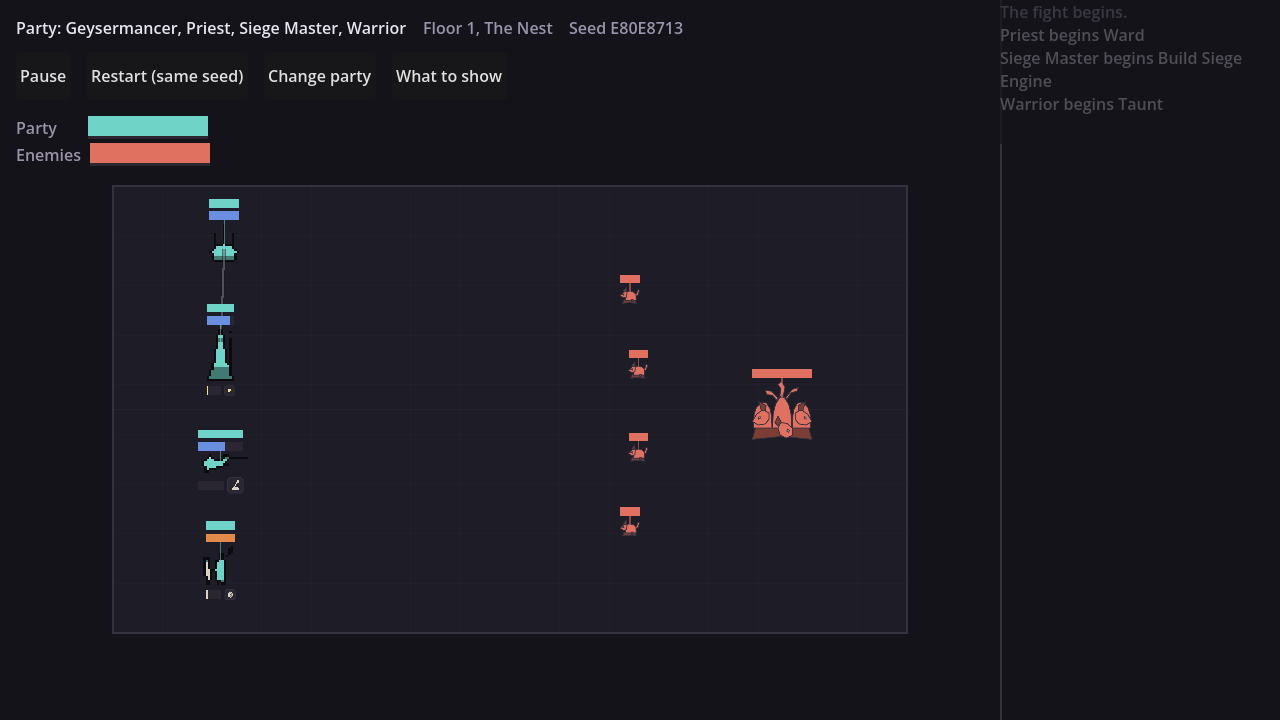
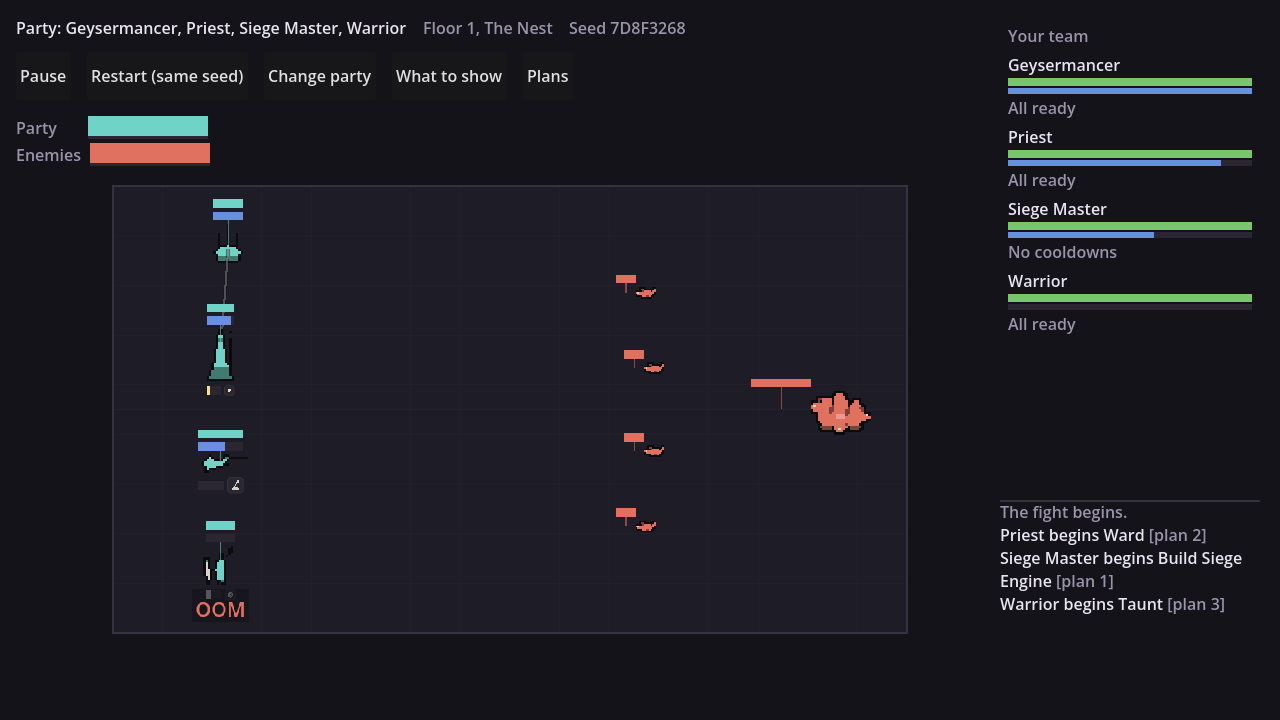
Pixel art for the Rat King and the Rat, and a test that can see it (#241 follow-on)
The pair, replaced together as Assets/Units/README.md requires. Both had no PNG,
so floor 1's miniboss was the only unit in a pickable room still drawn in the
polygon style, among four pixel-art pawns in the same frame.

THE DIAGNOSIS, MEASURED BEFORE ANYTHING WAS DRAWN

`RoomWatch --room rat_king`, real fight, `rat_king_before_*_1280x720.png`. At
the 48 px it is actually drawn at, the polygon's three backs are near-equal and
its two outer heads mirror each other, so it reads as one bilateral object -- a
shrub, or a pair of lungs. Every crest in the sprite is now a different height
AND a different width, the two valleys are different depths, and the three heads
break three DIFFERENT edges of the outline: left, right and the bottom.

THE VALLEYS ARE THREE COLUMNS WIDE AND THAT IS LOAD-BEARING

The outline pass is 8-connected, so it climbs a valley wall diagonally from both
sides at once and the two meet in the middle. Valleys authored one column wide
and four to five pixels deep read back off the finished PNG as one pixel: the
scallop was simply gone, and the crest detector scored the whole pile as a
single hump, correctly. Three columns keeps the middle one out of reach of both
walls. Written into the README, because it is invisible in the source spans.

NO TAIL KNOT IN THE SPRITE, AND IT IS A LOSS

Three attempts at 26 px: two equal strands off one crest read as ANTLERS; moving
them apart put one over a valley where it detached and read as debris floating
[…]

diff --git a/Assets/Units/README.md b/Assets/Units/README.md
@@ -1,8 +1,15 @@
 # Replacing the placeholder art
 
-Every unit in the game is currently drawn as coloured polygons defined in
-`Scripts/Art/Silhouettes.gd`. They are placeholders and they are meant to be
-thrown away.
+A unit with a PNG in this folder is drawn from that PNG. A unit without one
+falls back to coloured polygons defined in `Scripts/Art/Silhouettes.gd`. Both
+are placeholders and both are meant to be thrown away.
+
+**Which of the two you are looking at matters more than it sounds.** For a unit
+with a PNG the polygons are dead code the game never renders, and measuring them
+has now produced two wrong answers in this project: a published table of
+silhouette fill ratios, and a test that counted the humps on the Rat King's
+back. Anything that measures a shape must ask `Silhouettes` rather than
+`build_parts`.
 
 ## The whole procedure
 
@@ -80,6 +87,22 @@ survives where there is resolution for it: the action icon, the projectile, and
 the polygon fallback in `Scripts/Art/Silhouettes.gd`. If you redraw the Warden at
 a size that can carry a chain, put it back.
 
+**The Rat King's back is three humps and the valleys between them must be at
+least three pixels wide.** This is the one thing in the whole folder that is
+easy to lose by accident. The outline around a sprite is 8-connected, so it
+climbs a valley wall diagonally from both sides at once: valleys drawn one
+column wide were authored four and five pixels deep and read back off the
+finished PNG as one, the scallop vanished, and the pile became a dome. Three
+columns keeps the middle one out of reach of both walls. `Tests/test_art.gd`
+measures the depth on the real pixels and says so if it drops.
+
+**Its tail knot is gone from the sprite and that is a loss.** "Joined at the
+tail" is the literal design and the knot was the one detail no other unit had.
+Three attempts at 26 pixels produced antlers, then debris floating above the
+unit, then a spike that turned the pile into a leaf. It survives in the polygon
+fallback in `Scripts/Art/Silhouettes.gd`, where there is resolution for it. If
+you redraw the pile bigger, put it back.
+
 **The Rat King and the rat are a pair and should be replaced as one.** The
 README describes the miniboss as *"a big collection of rats joined at the tail"*
 whose attacks *"leave behind rats"*, so the fight is a pile of the very thing it
@@ -88,8 +111,19 @@ the pile is three rounded backs with three heads facing three different ways,
 and the rat is one of those backs and one of those heads at a third of the size.
 If you replace only one of them, the fight stops being about one creature.
 
-`Screenshots/rat_king.png` shows both, at design size and at the size the game
-actually draws them, with the Warden beside them for scale.
+`Screenshots/rat_king.png` shows the polygon fallback at design size and at the
+size the game draws it, with the Warden beside it for scale.
+`Screenshots/rat_king_silhouette_before_after.png` is the pair as they ship, and
+`Screenshots/room_rat_king_*_1280x720.png` is a real fight.
+
+**One thing a picture of a sprite cannot tell you, and no test can either.**
+"Reads as many rather than as one" is not measurable from the outline: four
+single-creature shapes still in the game — the goblin, the goblin archer, the
+warrior and the geysermancer — score exactly the same three crests on the top
+edge as the pile does, because a top edge cannot tell a lobe from a creature. A test
+in `Tests/test_art.gd` used to claim it did, and it only appeared to work
+because it was measuring polygons that stopped being drawn the day these PNGs
+landed. Judge that claim by looking at a fight.
 
 **This table is checked by a test.** `Tests/test_art.gd` walks the real content
 registry and fails if this list drifts from what the game actually asks for, so
